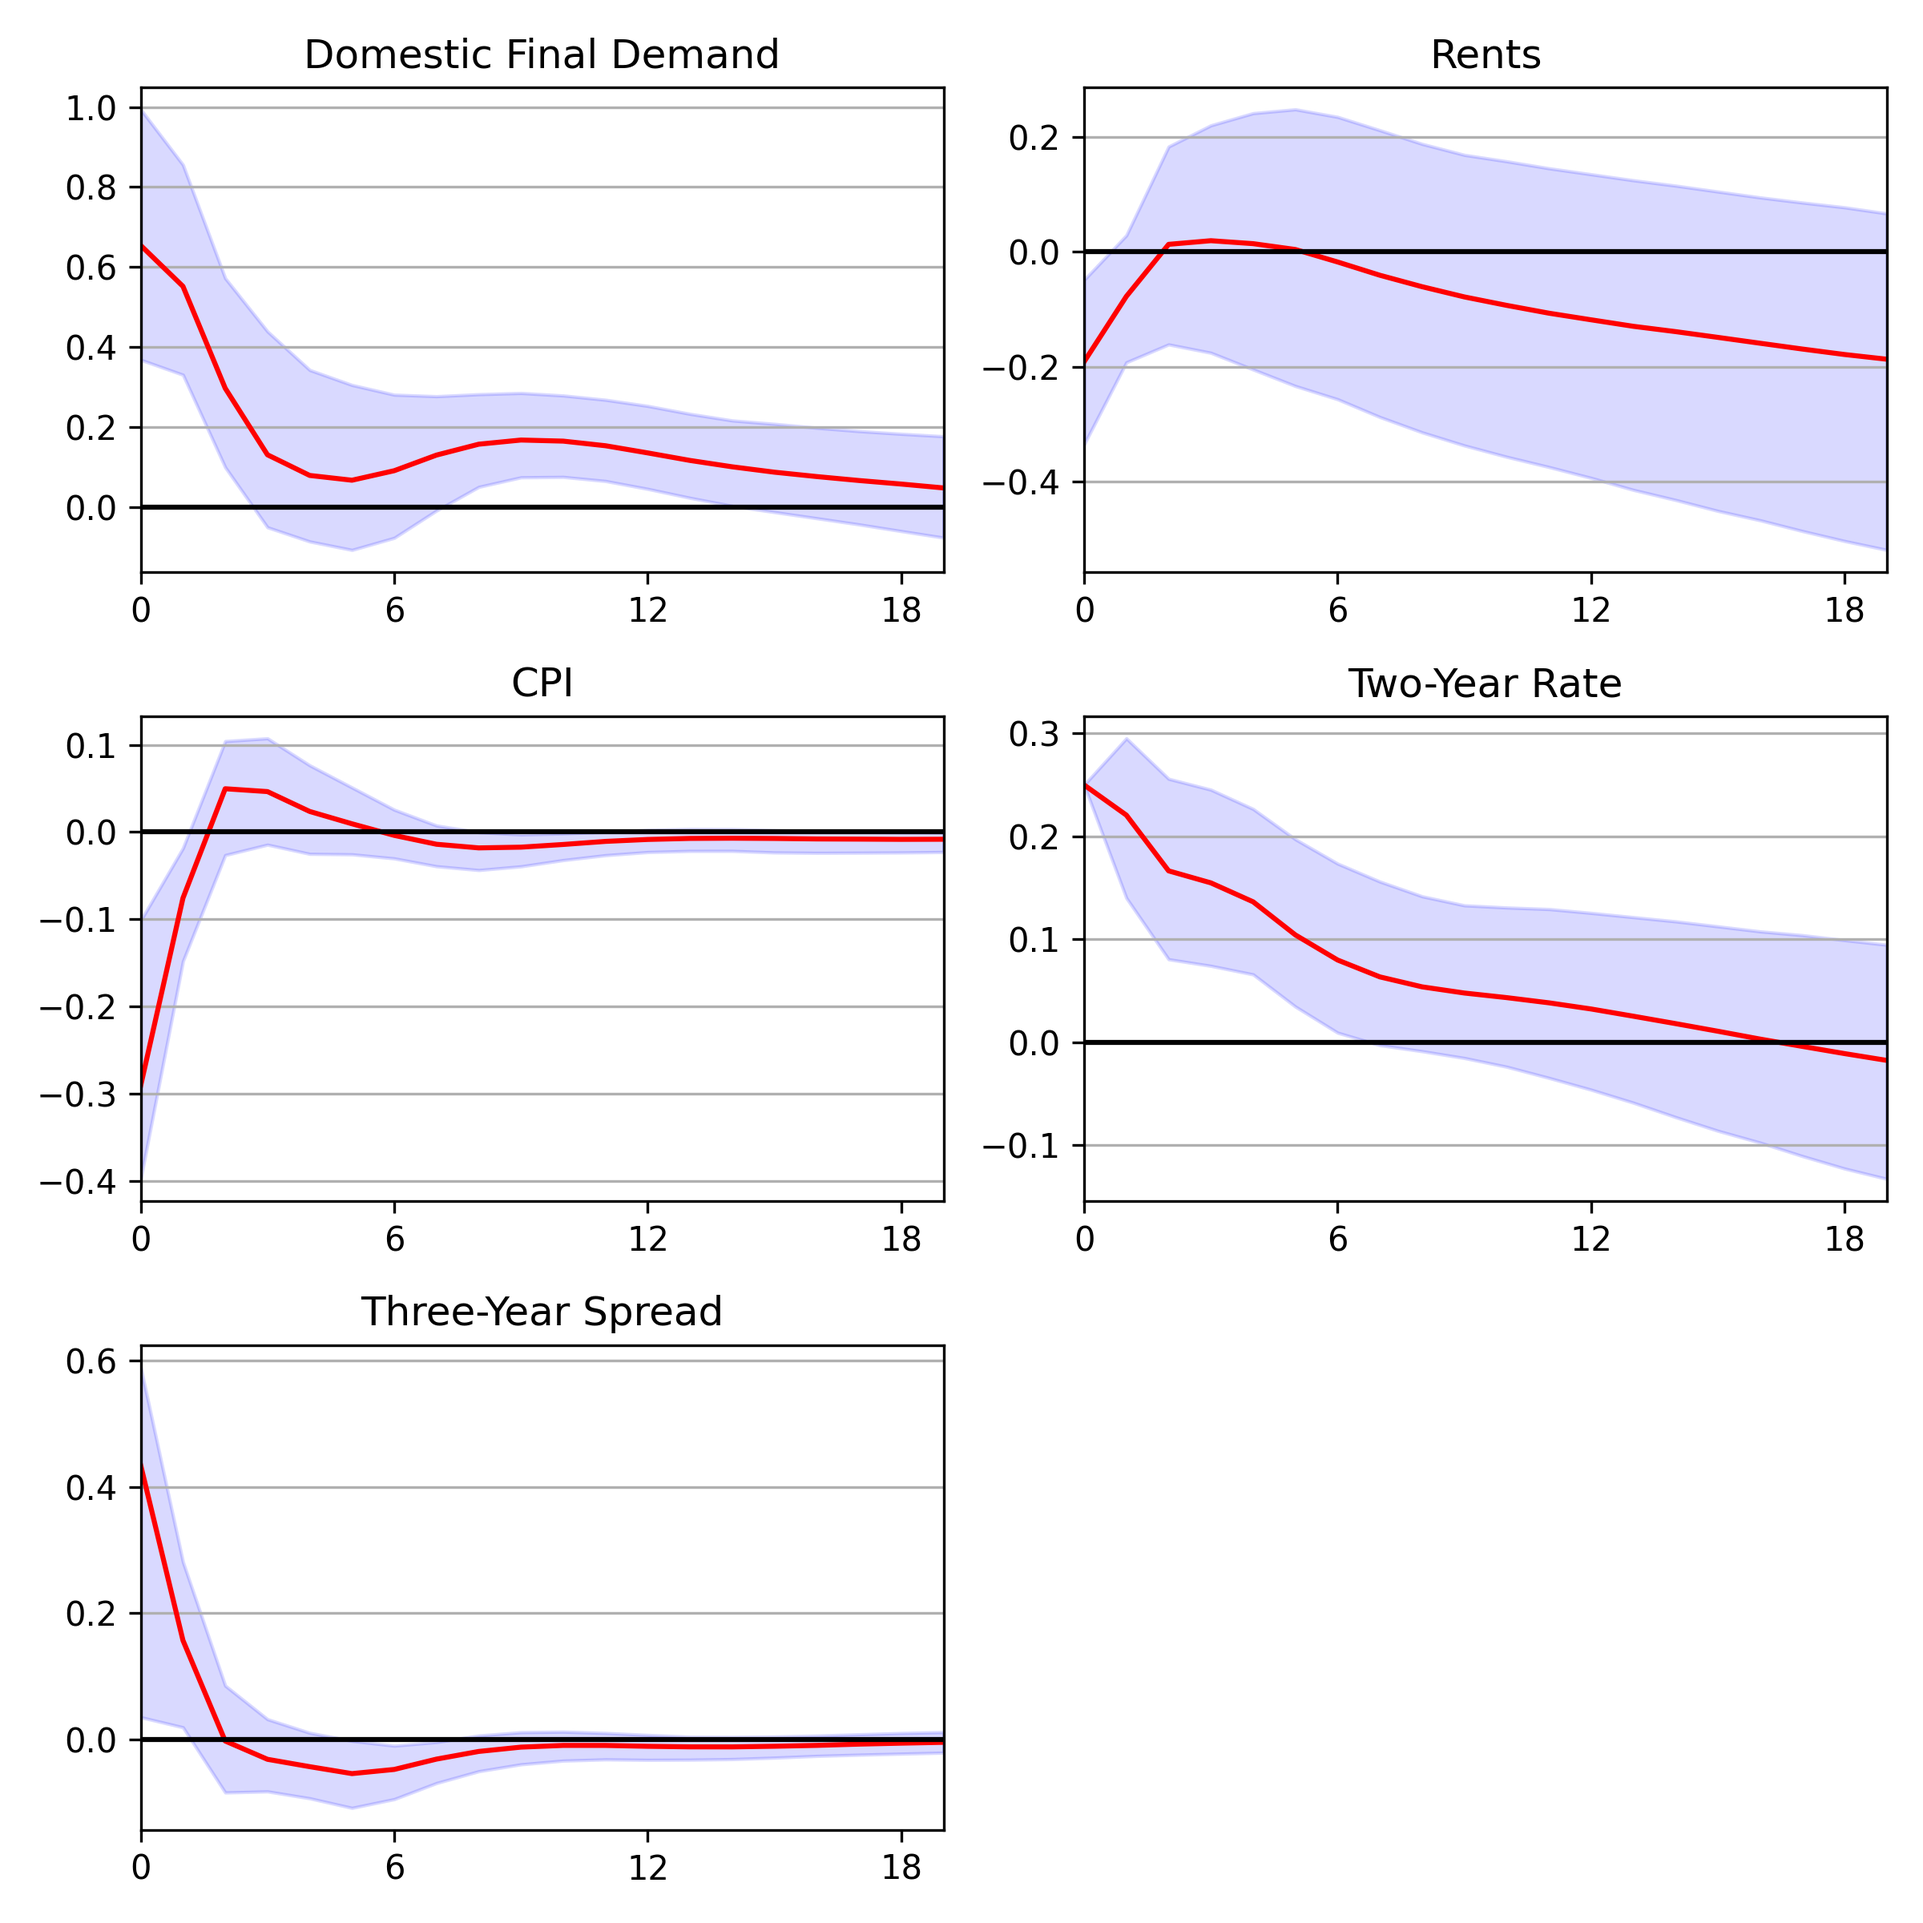
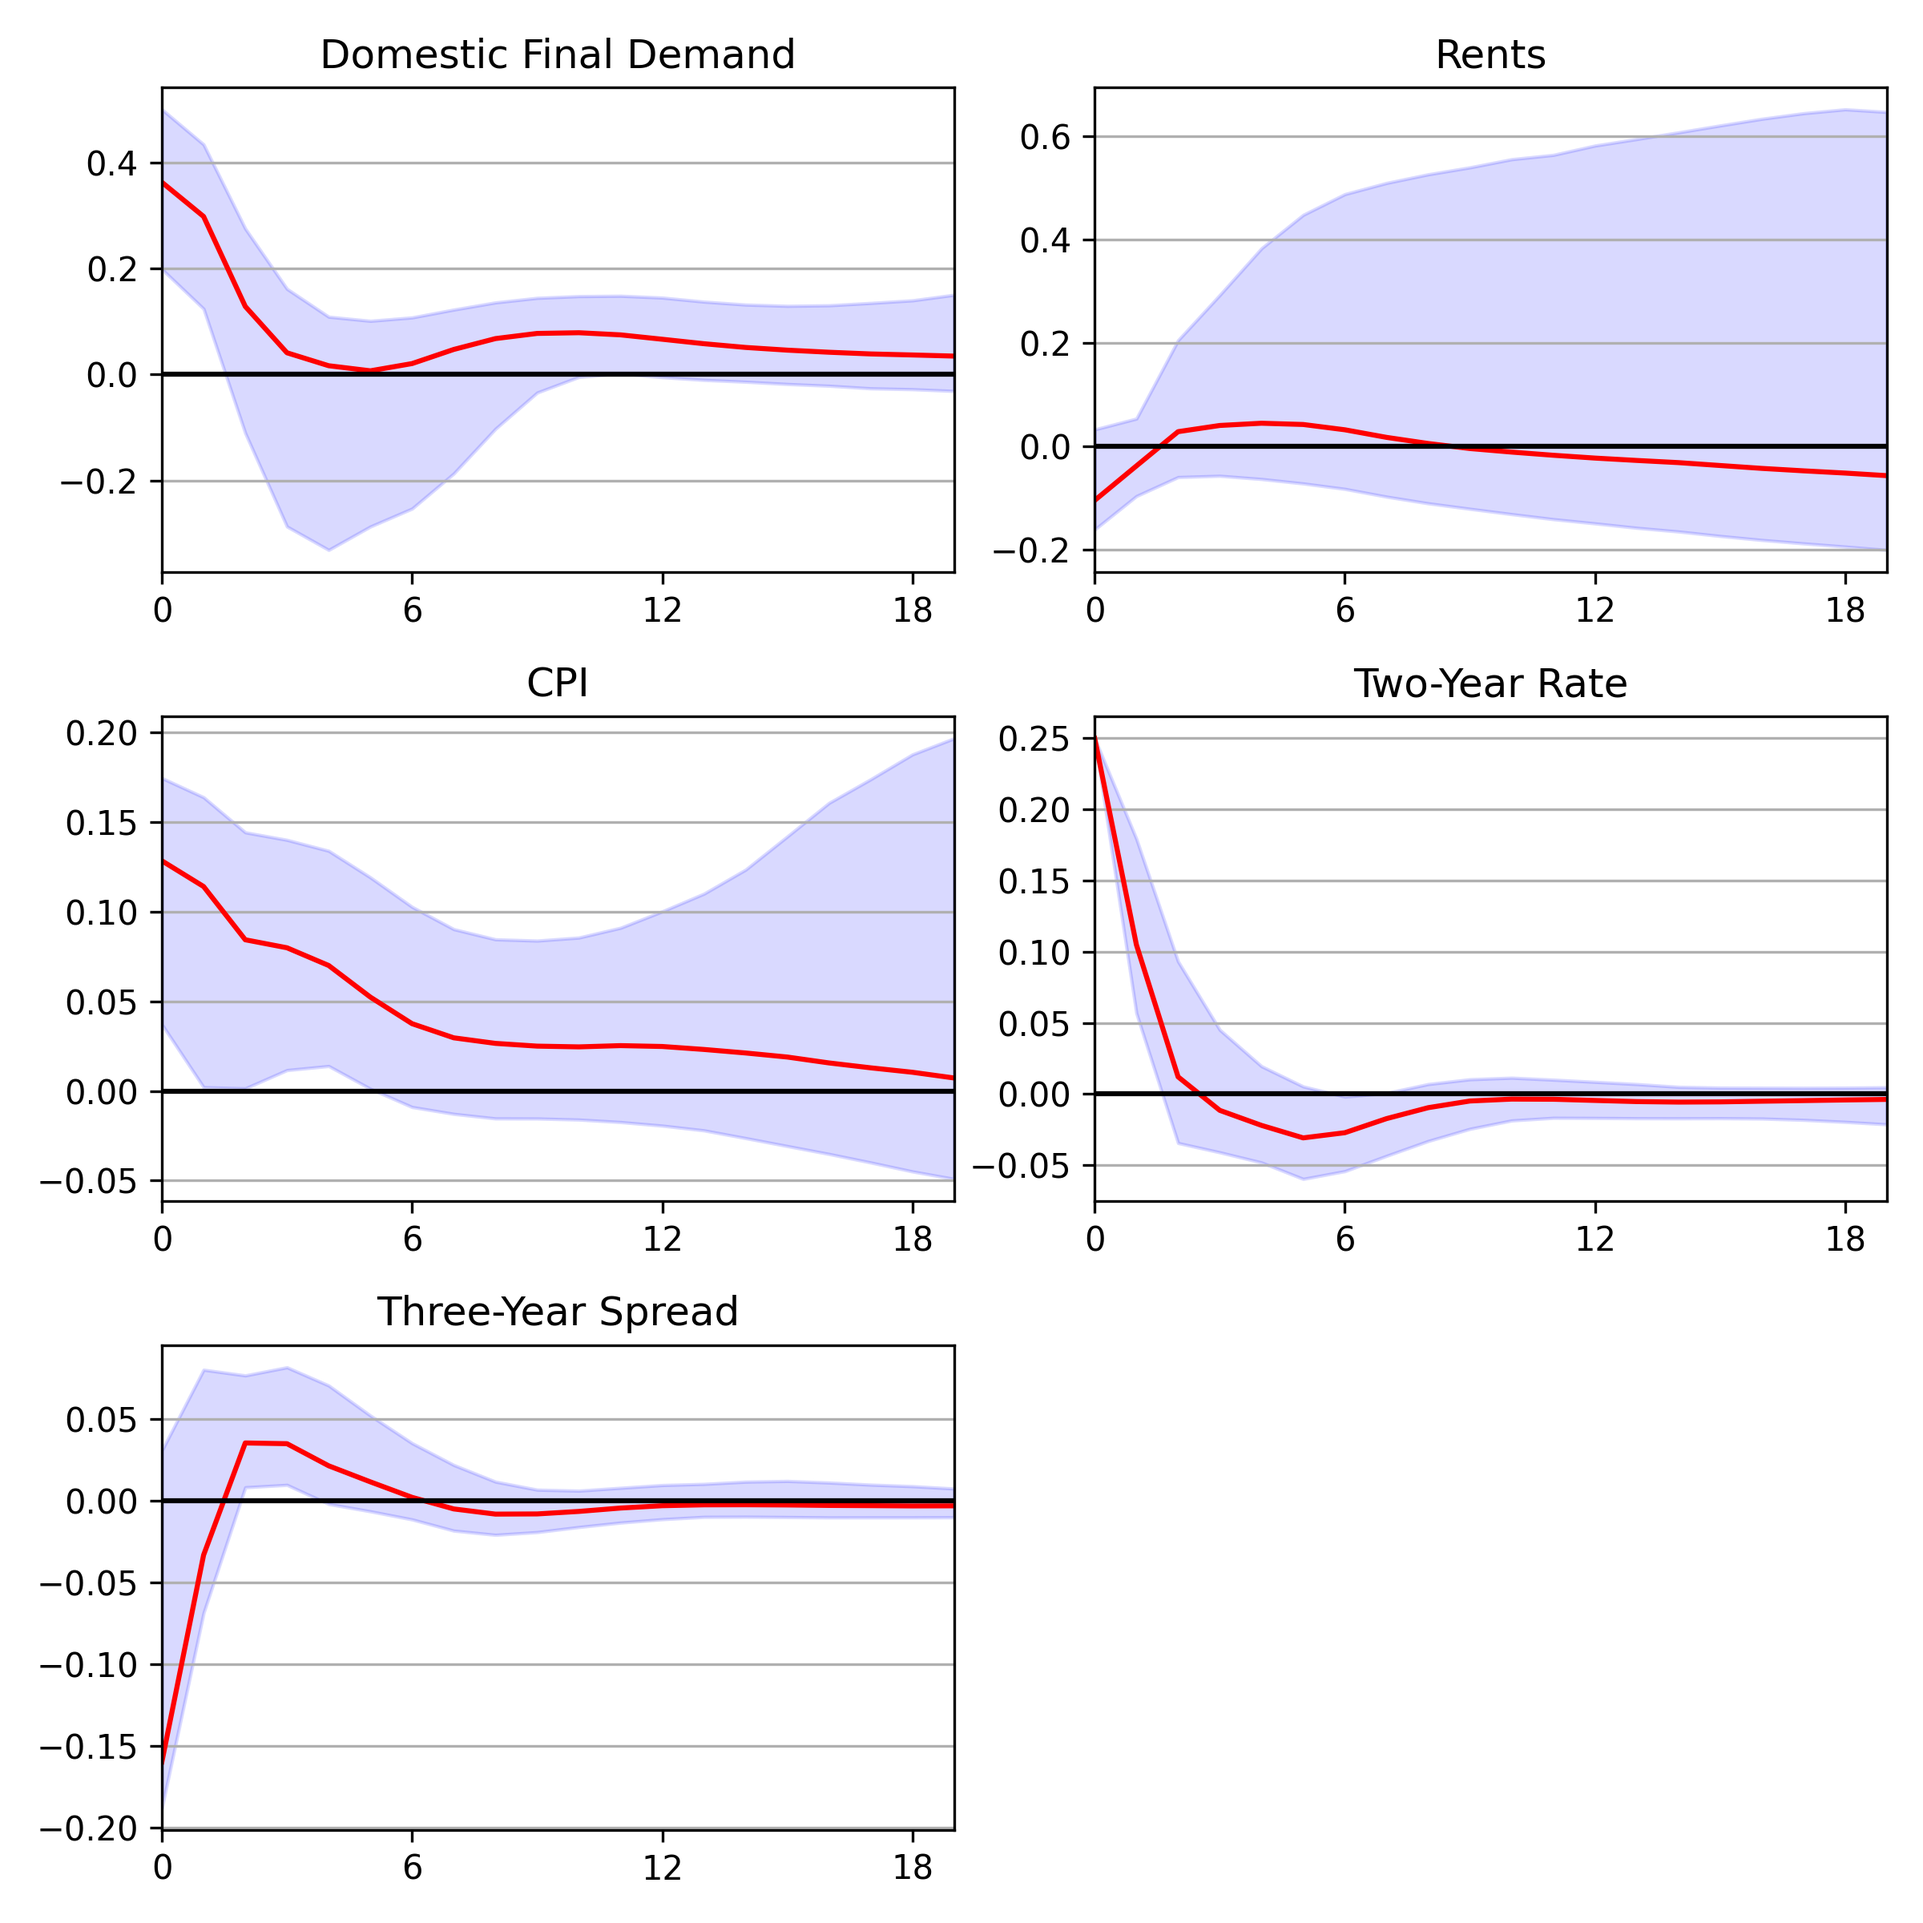
Fix: use the correct indices for plotting Aus fig 1

diff --git a/src/scripts/replicate_fig1_AUS.py b/src/scripts/replicate_fig1_AUS.py
@@ -95,7 +95,8 @@ seed = 2; # seed for random number generator
 np.random.seed(seed)
 
 # Define VAR struct to feed into model
-VAR = VARStruct(p, irhor, vars=mdata[['CPI', 'IP', '2YRate', '3YSpread', 'rents']], proxies=ppdata[['agg_shock']])
+VAR = VARStruct(p, irhor, vars=mdata[['2YRate', 'IP', '3YSpread', 'CPI', 'rents']], proxies=ppdata[['agg_shock']])
+
 # %%
 ## Solve the SVAR model
 modelVAR = doProxySVAR(VAR)
